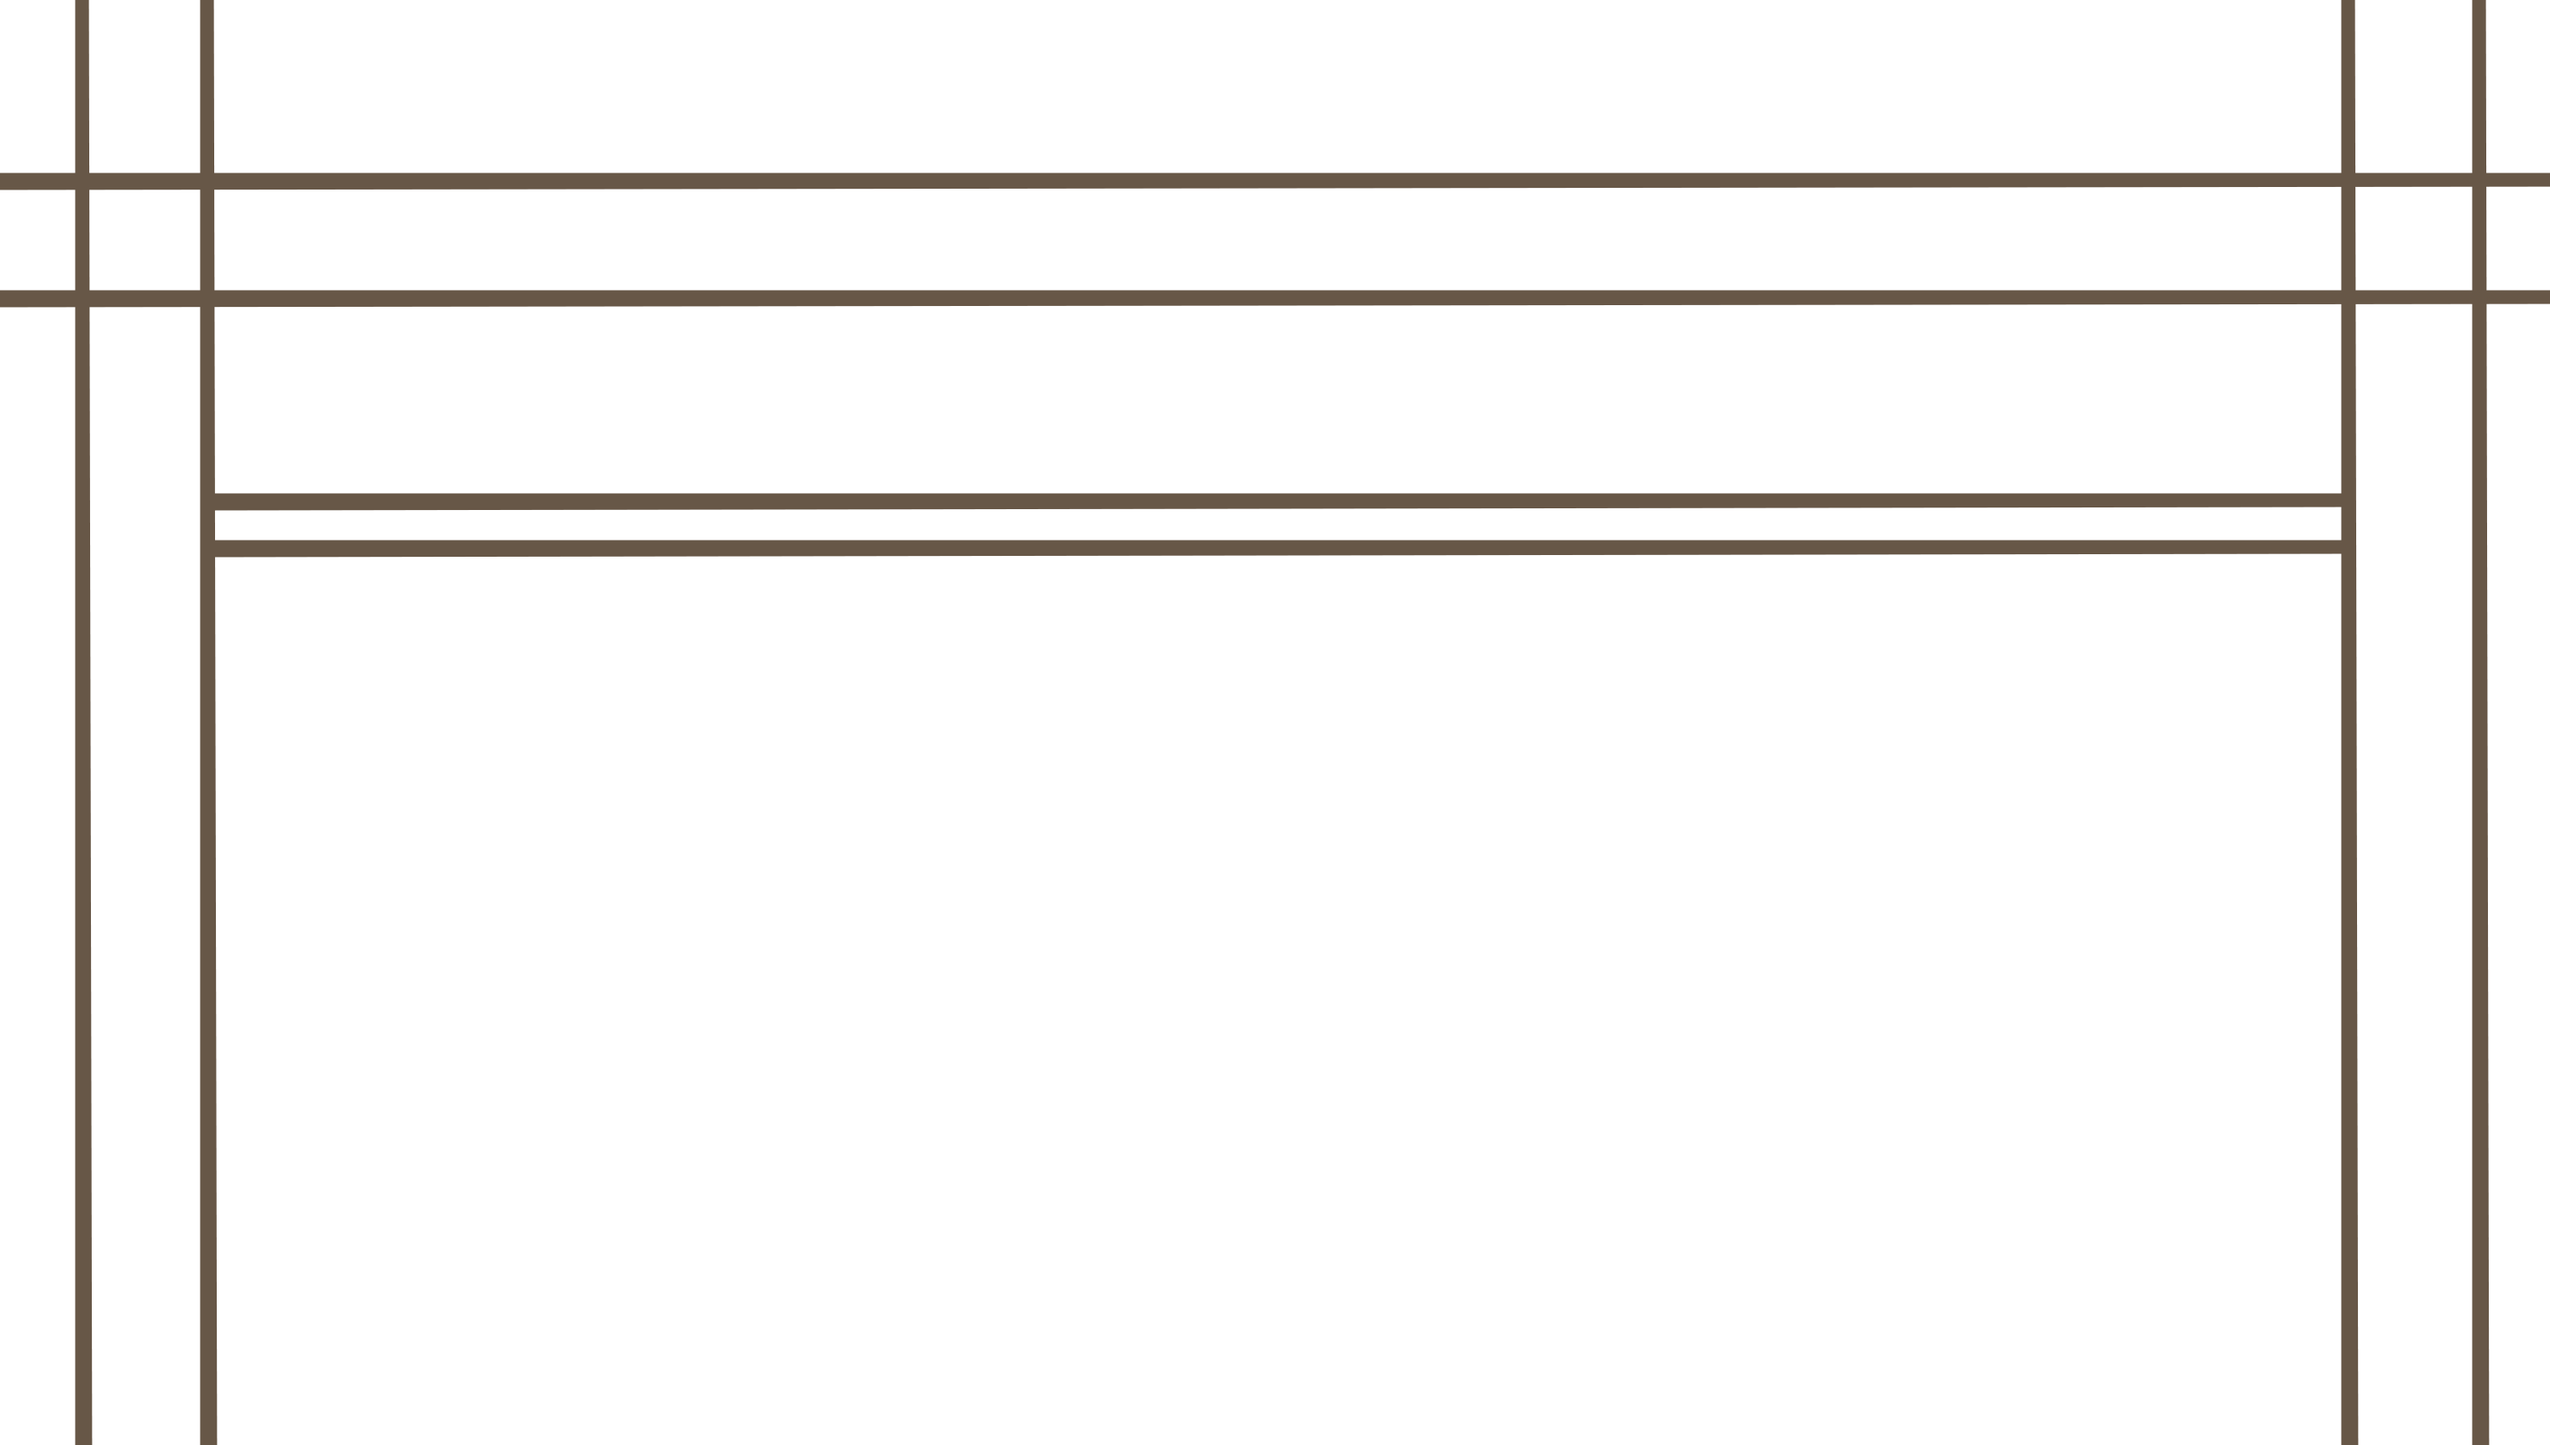
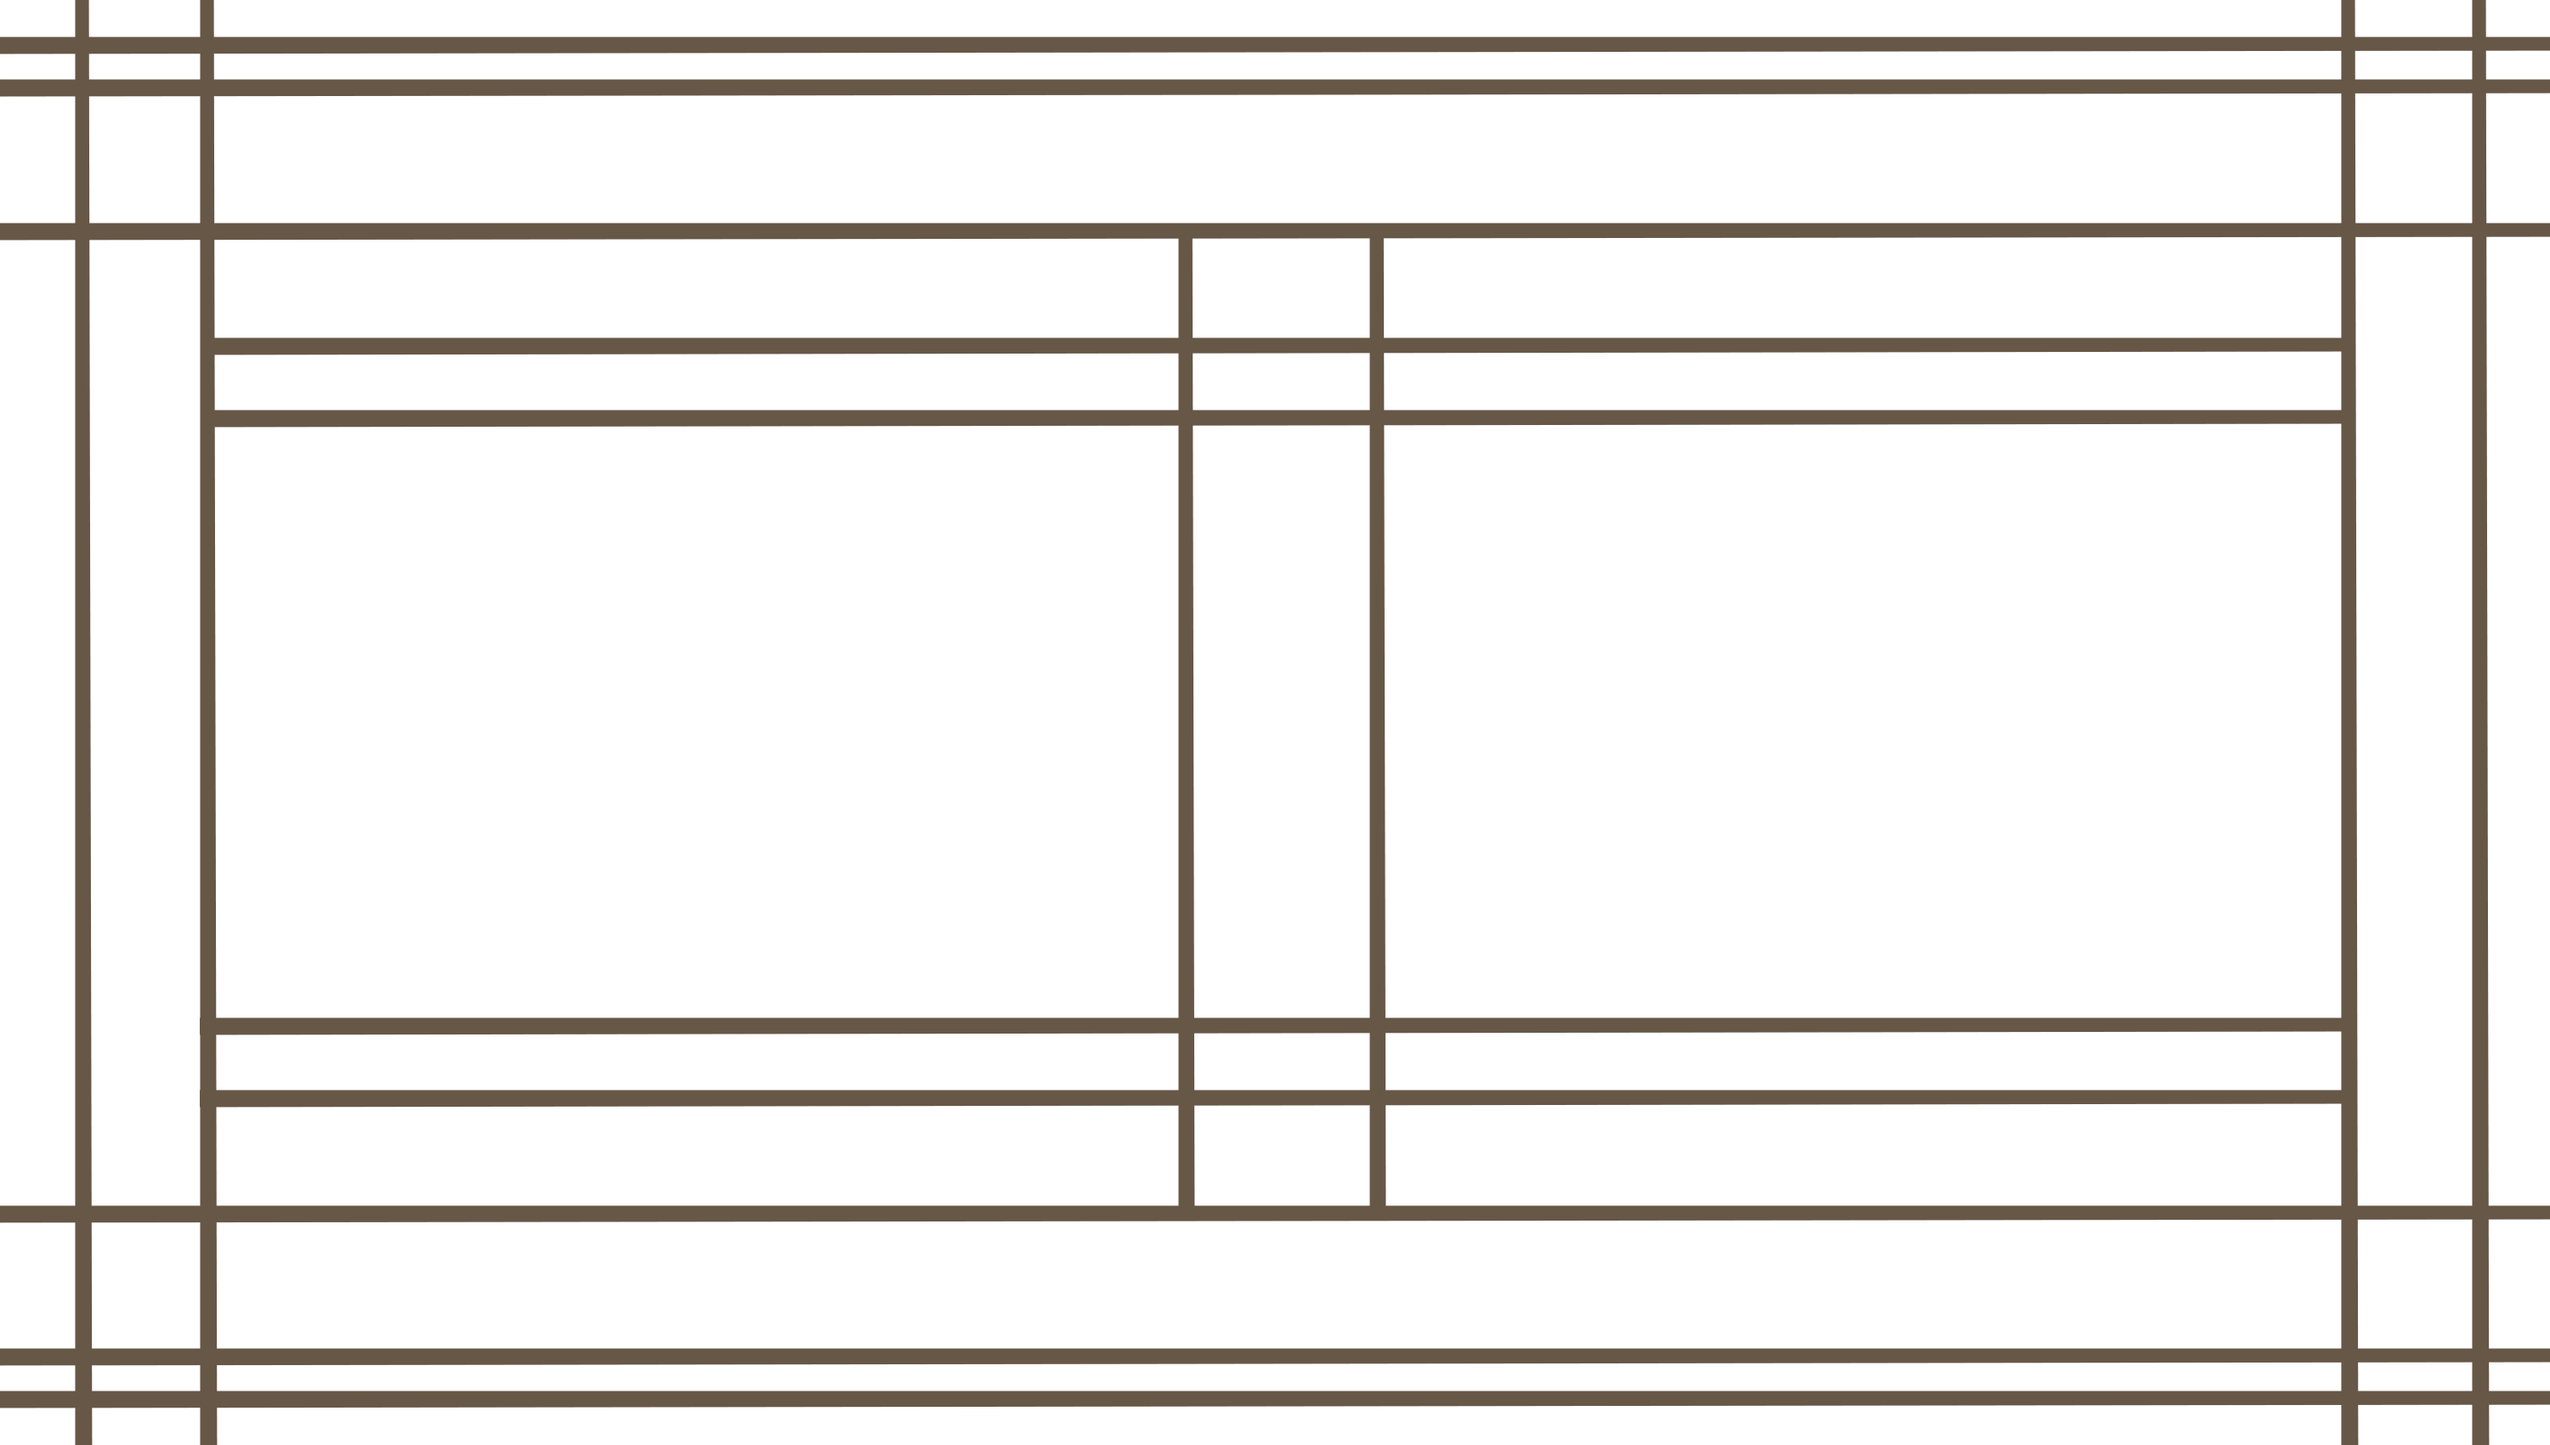
backgrounds and changed headshot

Changed region(s): [[0.0, 0.0, 1.0, 0.8729], [0.0, 0.9353, 1.0, 0.9976]]

diff --git a/index.html b/index.html
@@ -81,7 +81,7 @@
             <div class="about-layout">
                 <div class="about-image">
                     <div class="image-portrait corners-border">
-                        <img src="images/portret.webp" alt="Portret Zuzanny Sulikowskiej">
+                        <img src="images/headshot.webp" alt="Portret Zuzanny Sulikowskiej">
                     </div>
                 </div>
 
